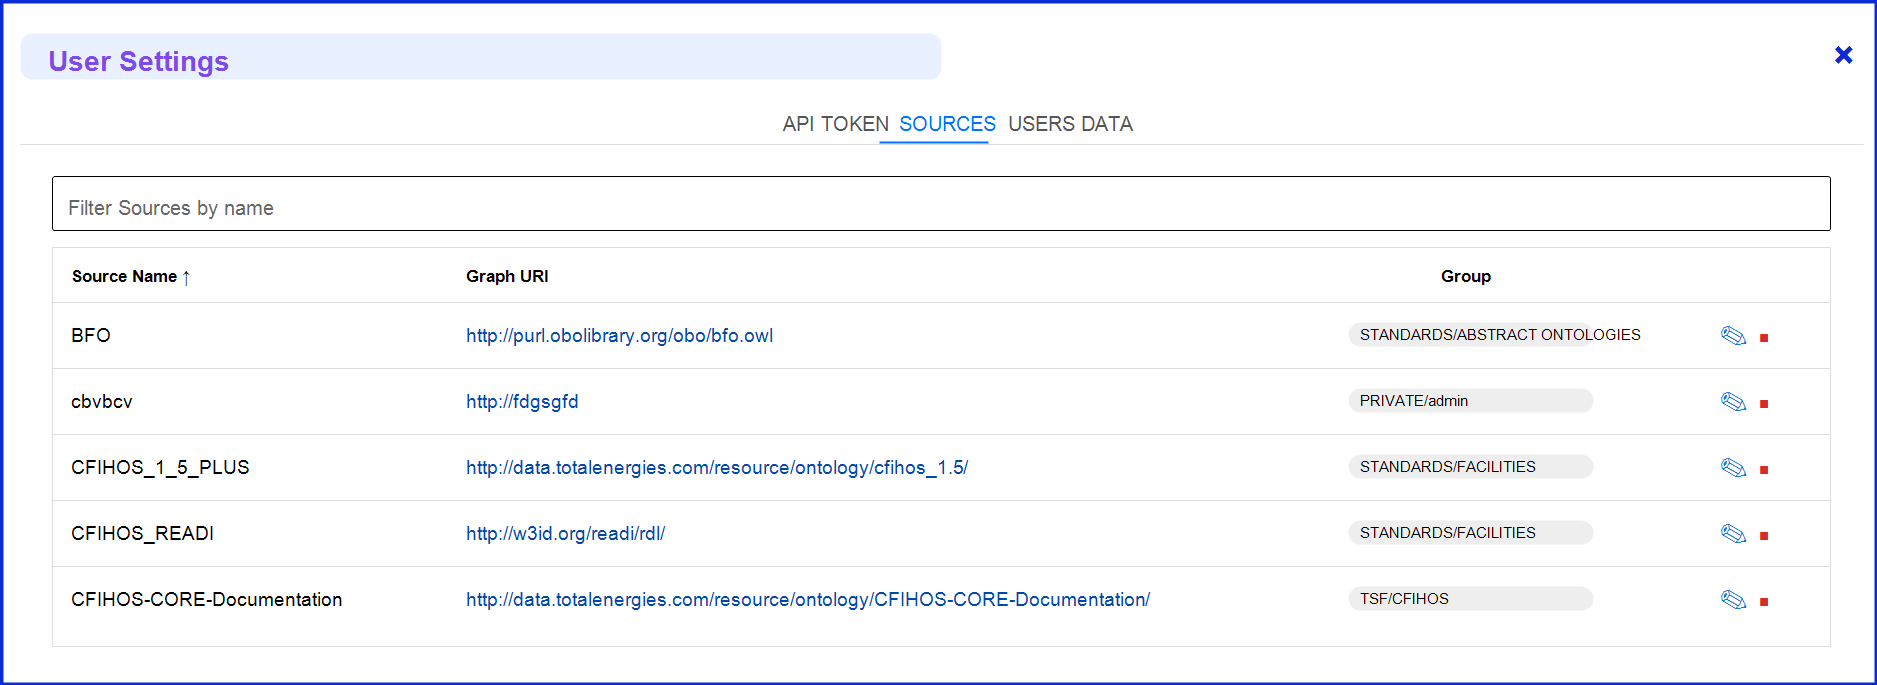
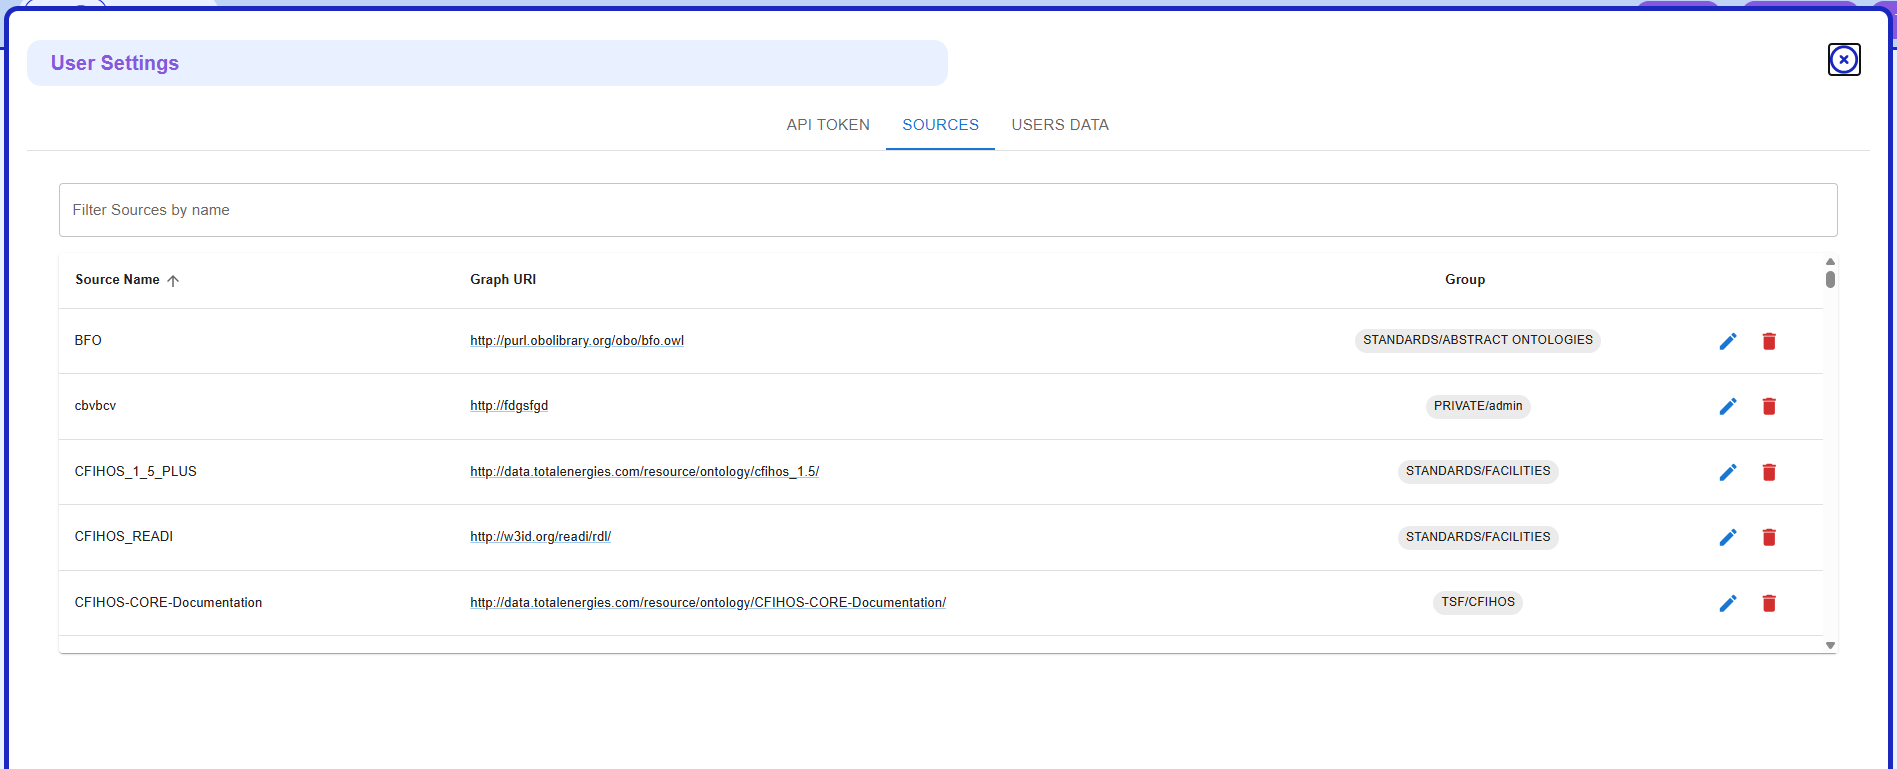
chore(doc): api and ai conf 1

diff --git a/docs/docs/admindoc/configuration/souslesens.md b/docs/docs/admindoc/configuration/souslesens.md
@@ -63,6 +63,9 @@ The `mainConfig.json` contain all the `souslesensVocables` configuration.
 -   `jowlServer`:
     -   `enabled`: `true` if the [JOWL](https://github.com/souslesens/jowl) server is enabled
     -   `url`: The JOWL URL, with protocol and port
+-   `llm`: The LLM provider configuration used by AI features.
+    -   `provider`: Active provider. Supported values: `anthropic`, `openrouter`, `ollama`.
+    -   `<provider>`: Provider-specific settings. The section name must match `provider`.
 -   `wiki`: The wiki configuration
     -   `url`: The wiki URL, with protocol and port
 -   `logs`: The logger configuration for the server
@@ -72,3 +75,56 @@ The `mainConfig.json` contain all the `souslesensVocables` configuration.
 -   `userData`: The configuration of the userData file management system
     -   `location`: the system used to store the file content (`file` or `database`)
     -   `maximumFileSize`: the maximum file content size allowed in the database (in bytes)
+
+### LLM provider configuration
+
+The AI integration is configured in `config/mainConfig.json` under the `llm` section. SLS reads and
+validates this section at startup from `model/config.js`, then `bin/AI/llmClient.js` selects the
+adapter matching `llm.provider`.
+
+Only one provider is active at a time:
+
+```json
+{
+    "llm": {
+        "provider": "anthropic",
+        "anthropic": {
+            "apiKey": "sk-ant-api03-...",
+            "defaultModel": "claude-sonnet-4-6",
+            "maxTokens": 1024,
+            "rateLimitTPM": 28000
+        }
+    }
+}
+```
+
+Supported providers:
+
+| Provider | Required settings | Optional settings |
+| --- | --- | --- |
+| `anthropic` | `apiKey`, `defaultModel` | `maxTokens`, `rateLimitTPM` |
+| `openrouter` | `apiKey`, `defaultModel` | `maxTokens`, `rateLimitTPM`, `appUrl`, `appName` |
+| `ollama` | `defaultModel` | `baseUrl`, `maxTokens`, `rateLimitTPM` |
+
+Defaults are defined in `model/config.js`. `ollama.baseUrl` defaults to `http://localhost:11434`.
+
+#### API key encryption
+
+LLM API keys can be stored encrypted in `mainConfig.json`. The server decrypts values prefixed with
+`enc:v1:` when `SLS_SECRET_KEY` is set.
+
+To print an encrypted key:
+
+```powershell
+$env:SLS_SECRET_KEY = "my-passphrase"
+node bin/AI/encryptKey.js sk-ant-api03-...
+```
+
+To encrypt the current `llm.<provider>.apiKey` in place:
+
+```powershell
+$env:SLS_SECRET_KEY = "my-passphrase"
+node bin/AI/encryptKey.js --in-place
+```
+
+The same `SLS_SECRET_KEY` must be available when the SLS server starts.
